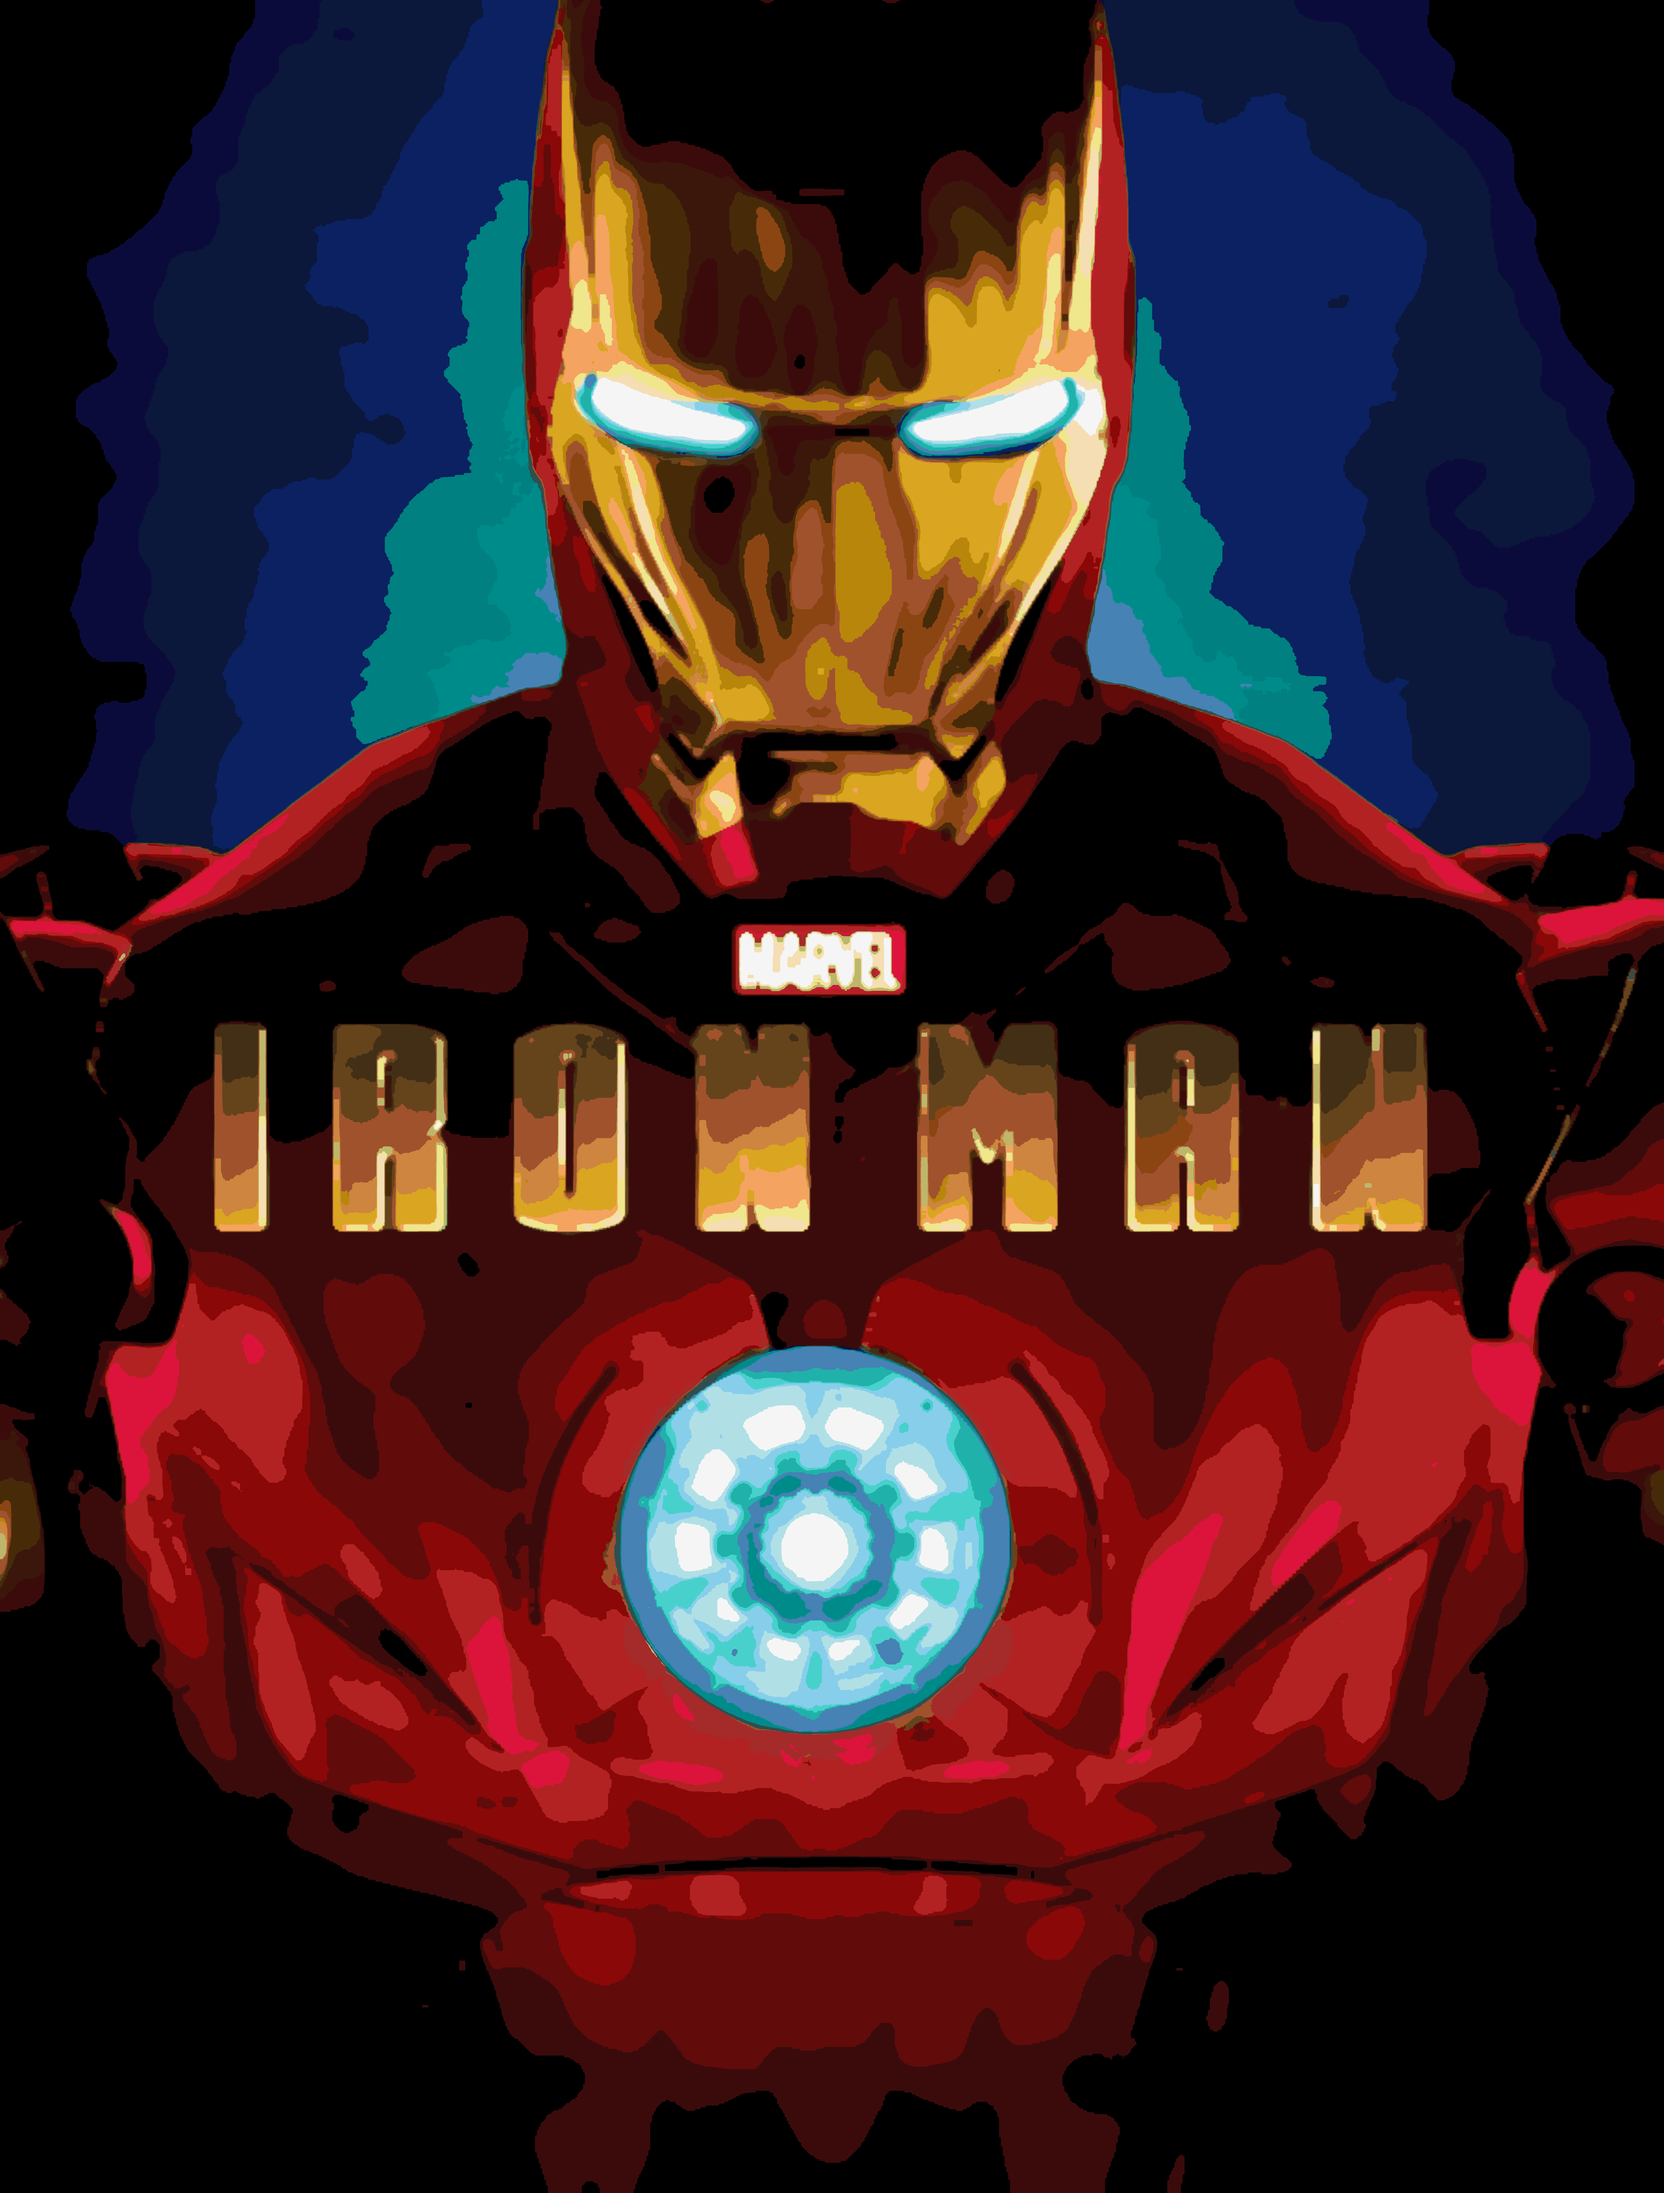
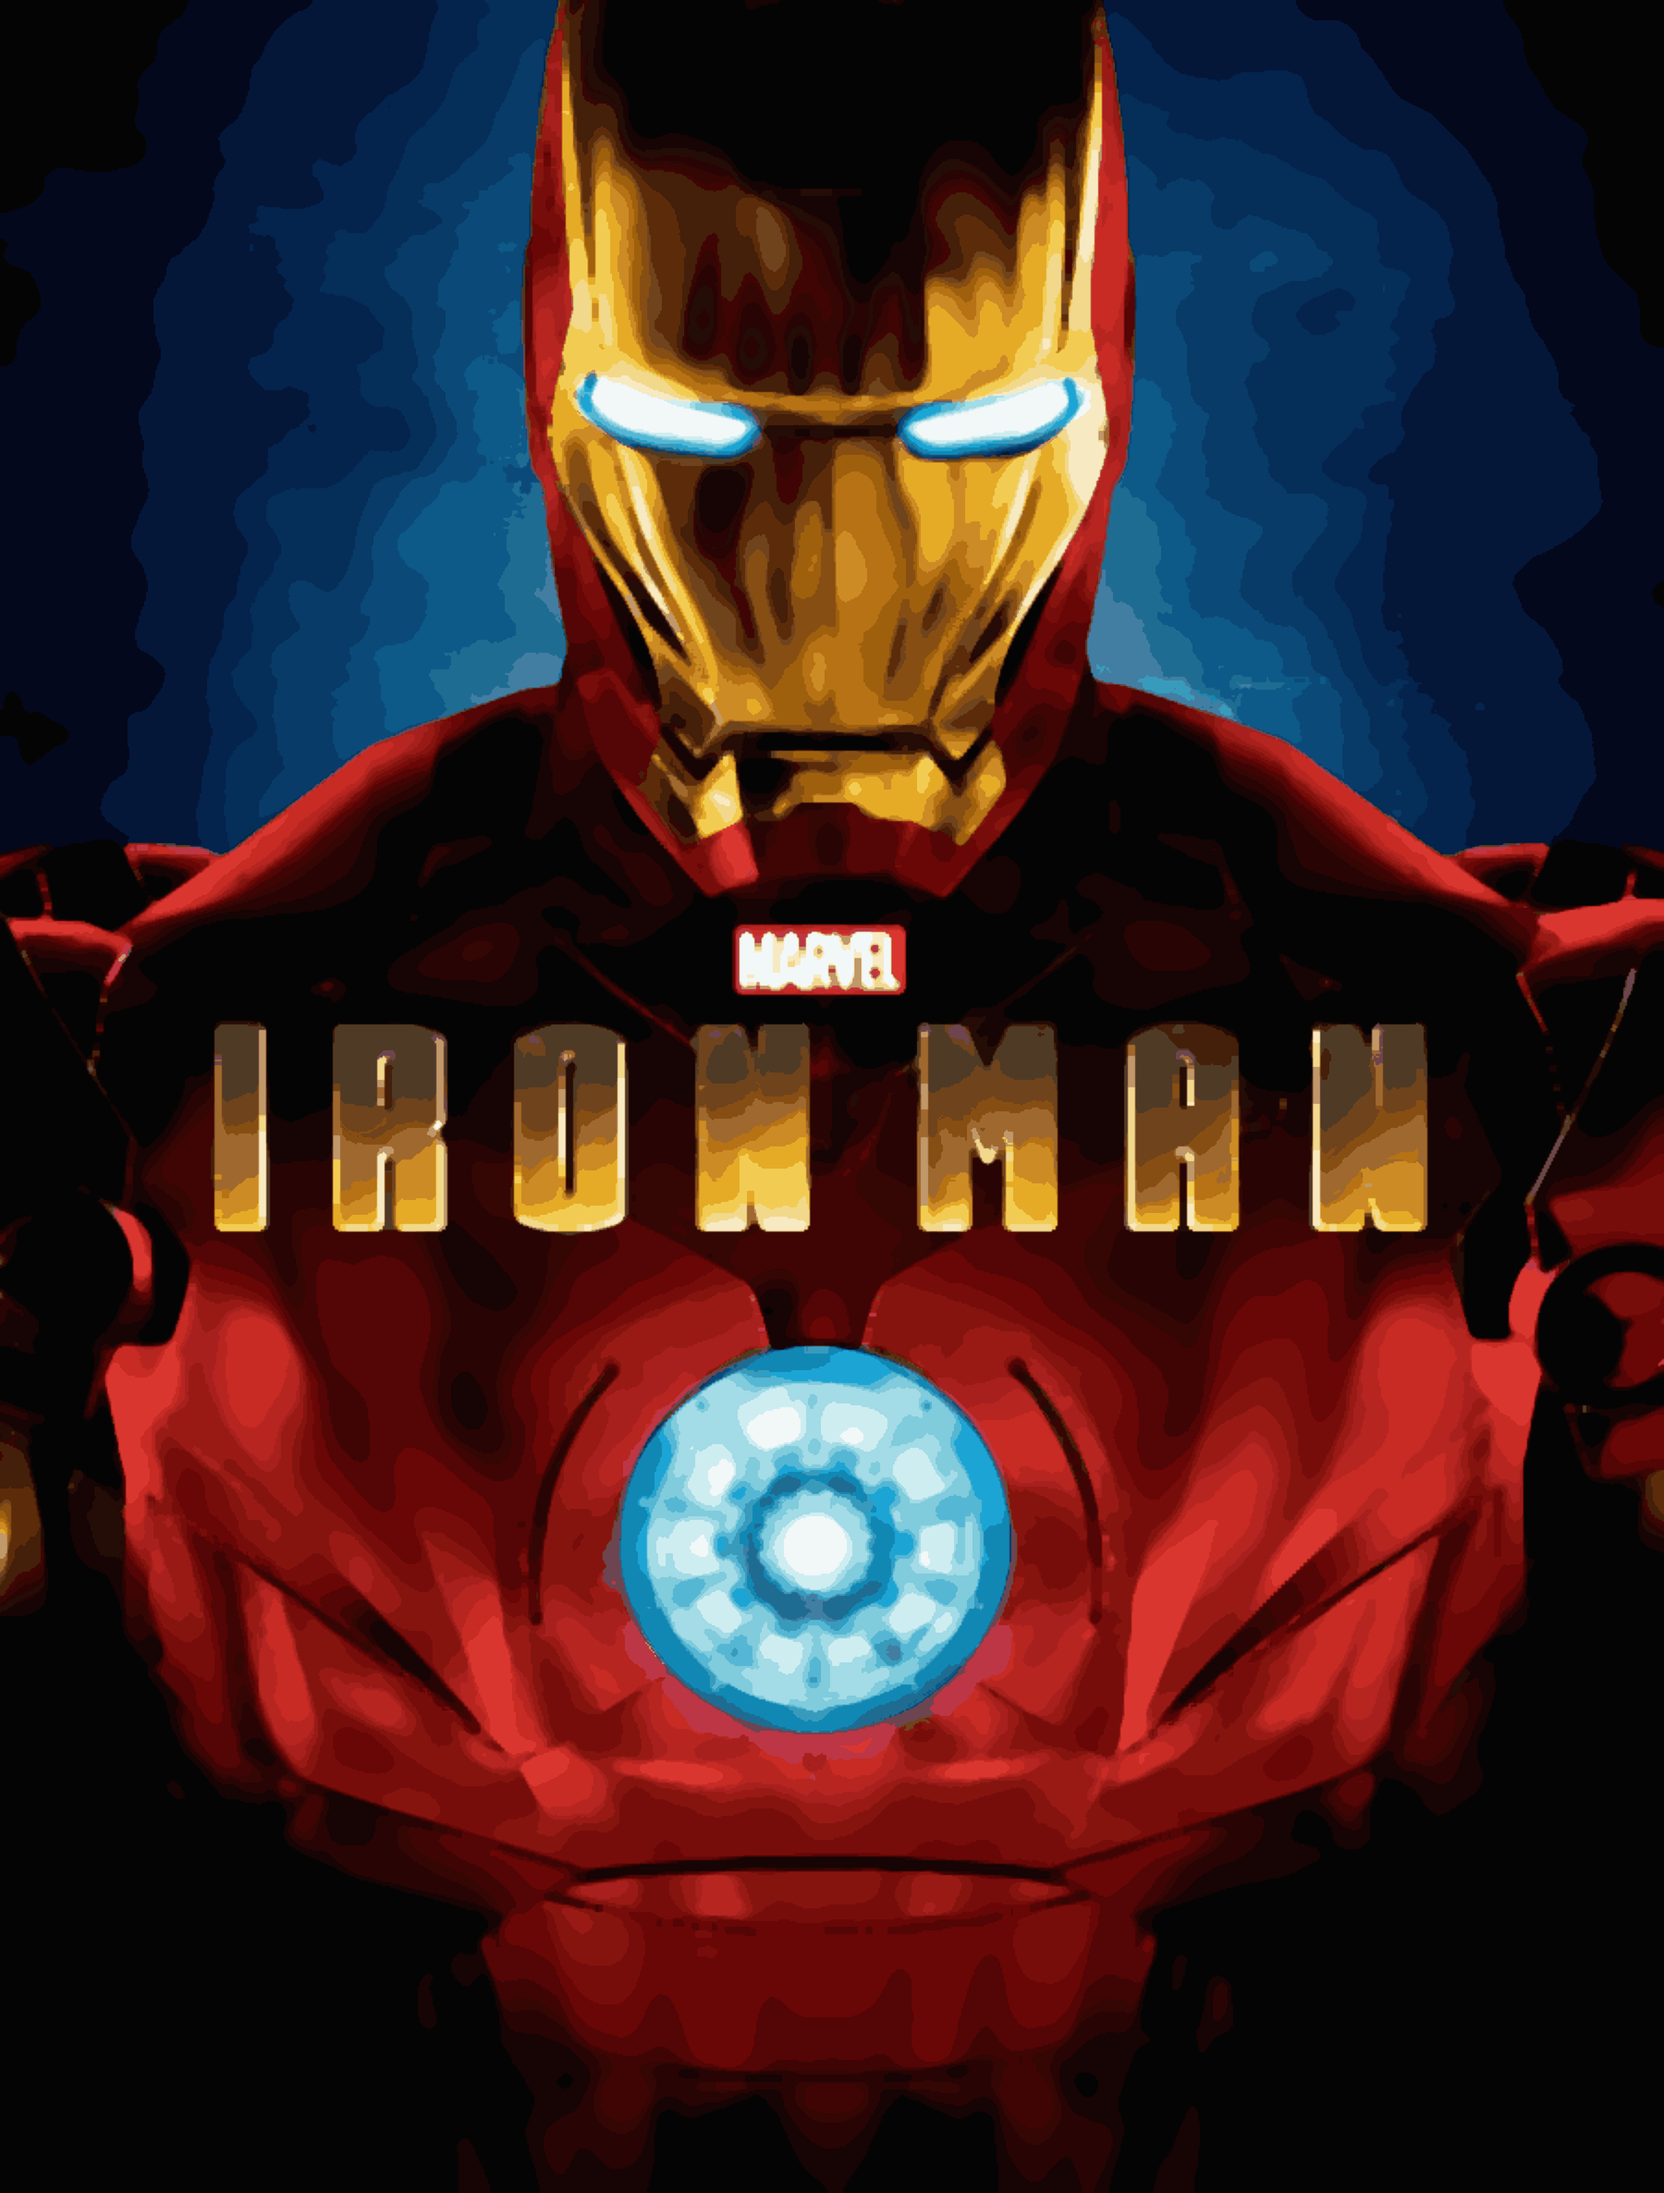
update minku pull

diff --git a/web/views.py b/web/views.py
@@ -76,22 +76,30 @@ def convert():
     
     
     # Way 2 )
-    print(f'이미지 확장 시작')
-    expandedImage = imageExpand(blurImage, guessSize = True)
-    cv2.imwrite(f'./web/static/render_image/working_img.png', expandedImage)
-    cv2.imwrite(f'./web/static/render_image/working_img0003.png', expandedImage)
     
     print(f'컬러 군집화 시작')
     
     # K-means 알고리즘을 활용한 컬러 군집화
-    clusteredImage = paintingTool.colorClustering( expandedImage, cluster = 48, round = 1 )
+    clusteredImage = paintingTool.colorClustering( blurImage, cluster = 32 )
     cv2.imwrite(f'./web/static/render_image/working_img.png', clusteredImage)
-    cv2.imwrite(f'./web/static/render_image/working_img0004.png', clusteredImage)
+    cv2.imwrite(f'./web/static/render_image/working_img0003.png', clusteredImage)
+
+    
+    print(f'이미지 확장 시작')
+    expandedImage = imageExpand(clusteredImage, guessSize = True)
+    cv2.imwrite(f'./web/static/render_image/working_img.png', expandedImage)
+    cv2.imwrite(f'./web/static/render_image/working_img0004.png', expandedImage)
+
+
 
     print(f'컬러 매칭 시작')
     # 군집화된 색상을 지정된 색상과 가장 비슷한 색상으로 매칭
-    paintingMap = paintingTool.getPaintingColorMap(clusteredImage)
-    
+    # paintingMap = paintingTool.getPaintingColorMap(clusteredImage)
+
+    # 클러스터 이후, 확장된 이미지에서 색상 동일하게 매칭
+    paintingMap = paintingTool.expandImageColorMatch(expandedImage)
+    # 요게 지정된 색상과 매칭
+    # paintingMap = paintingTool.getPaintingColorMap(paintingMap)
 
     cv2.imwrite(f'./web/static/render_image/working_img.png', paintingMap)
     cv2.imwrite(f'./web/static/render_image/working_img0005.png', paintingMap)
@@ -129,7 +137,8 @@ def convert():
 
 
     # 결과 이미지 백지화
-    result_img = makeWhiteFromImage(expandedImage)
+    # result_img = makeWhiteFromImage(expandedImage)
+    result_img = paintingMap
 
     # 결과이미지 렌더링
     # image를 넣으면 원본이미지에 그려주고, result_img에 넣으면 백지에 그려줌

diff --git a/libs/imageProcessing.py b/libs/imageProcessing.py
@@ -57,7 +57,7 @@ def setLabel(image, num, pt):
     thickness = 1 # 2
 
     textsize = cv2.getTextSize(num, fontface, scale, thickness)[0]
-    pt = (int(pt[0]-(textsize[0]/2)), int(pt[1]+(textsize[1]/2)))
+    pt = (int(pt[0]-(textsize[0]/2)+1), int(pt[1]+(textsize[1]/2)))
 
 
     cv2.putText(image, num, pt, fontface, scale, (0, 0, 0), thickness, 8)
@@ -321,7 +321,7 @@ def setColorNumberFromContours2(img, thresh, contours, hierarchy, img_lab, lab, 
         if center is not None:
             #    컨투어를 그림
             cv2.drawContours(img, [contour], -1, (100, 100, 100), 1)
-            cv2.circle(img, center, int(radius), (0, 0, 255), 1, cv2.LINE_8, 0)
+            cv2.circle(img, center, int(radius), (0, 255, 0), 1, cv2.LINE_8, 0)
 
             # 컨투어 내부에 검출된 색을 표시
             color_text = label(img_lab, contour, lab, colorNames)
